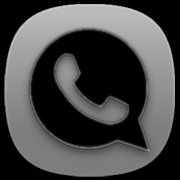
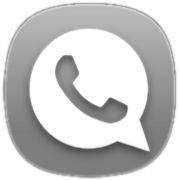
Splashscreen fixies - smooth and transparent images - addded portait background with transparent animation

diff --git a/src/client/UI/Misc/WASplash.qml b/src/client/UI/Misc/WASplash.qml
@@ -1,4 +1,3 @@
-// import QtQuick 1.0 // to target S60 5th Edition or Maemo 5
 import QtQuick 1.1
 import "../common"
 import com.nokia.meego 1.0
@@ -19,9 +18,8 @@ WAPage {
     }
     
     function nextStage() {
-	curProgress=1
 	stage++
-	position=1
+	position=0
     }
 
     function setSubOperation(subop) {
@@ -43,11 +41,13 @@ WAPage {
     function setProgress(val) {
 	    var part = 100/maximumValue
 	    curProgress = parseInt(part*val /10)
+	    progress.source = "images/" + stage + curProgress + "0.png"
     }
 
     function setOpacity(val) {
-	    var part = myBackgroundOpacity/maximumValue/10.0
-	    background.opacity = part*val
+	    if (!theme.inverted)
+		blackbg.opacity = 1.0 - (1.0/maximumValue) * val
+	    background.opacity = (myBackgroundOpacity/maximumValue/10.0) * val
     }
 
     onStatusChanged: {
@@ -61,30 +61,55 @@ WAPage {
     }
     
     Rectangle {
-	id: name
+	id: whitebg
 	anchors.fill: parent
-	color: theme.inverted?"black":"white"
+	color: "white"
+    }
+    
+    Rectangle {
+	id: blackbg
+	anchors.fill: parent
+	color: "black"
+	opacity: 1.0
 	
-	Image {
-	    id: background
-	    anchors.fill: parent
-	    source: myBackgroundImage!="none" ? WAConstants.CACHE_PATH+"/"+"background.jpg" + "?ran=" + Math.random() : ""
-	    fillMode: Image.PreserveAspectCrop
-	    opacity: 0
-	    
-	    Behavior on opacity { SmoothedAnimation { velocity: 50 } }
+	transitions: Transition {
+	    NumberAnimation {
+		target: blackbg
+		property: "opacity"
+		from: blackbg.opacity
+		alwaysRunToEnd: true
+		duration: 7000
+	    }
 	}
+    }
 	
-	Image {
-	    id: progress
-	    width: 180
-	    height: 180
-	    anchors.left: parent.left
-	    anchors.top: parent.top
-	    anchors.topMargin: 246
-	    anchors.leftMargin: 150
-	    source: "images/" + stage + curProgress + "0.png"
+    Image {
+	id: background
+	anchors.fill: parent
+	source: myBackgroundImage!="none" ? (WAConstants.CACHE_PATH+"/"+"background-portrait.jpg" + "?ran=" + Math.random()) : ""
+	fillMode: Image.PreserveAspectCrop
+	opacity: 0
+	
+	transitions: Transition {
+	    NumberAnimation {
+		target: background
+		property: "opacity"
+		from: background.opacity
+		alwaysRunToEnd: true
+		duration: 7000
+	    }
 	}
+    }
+    
+    Image {
+	id: progress
+	width: 180
+	height: 180
+	anchors.left: parent.left
+	anchors.top: parent.top
+	anchors.topMargin: 246
+	anchors.leftMargin: 150
+	source: "images/100.png"
     }
 
     Column{
